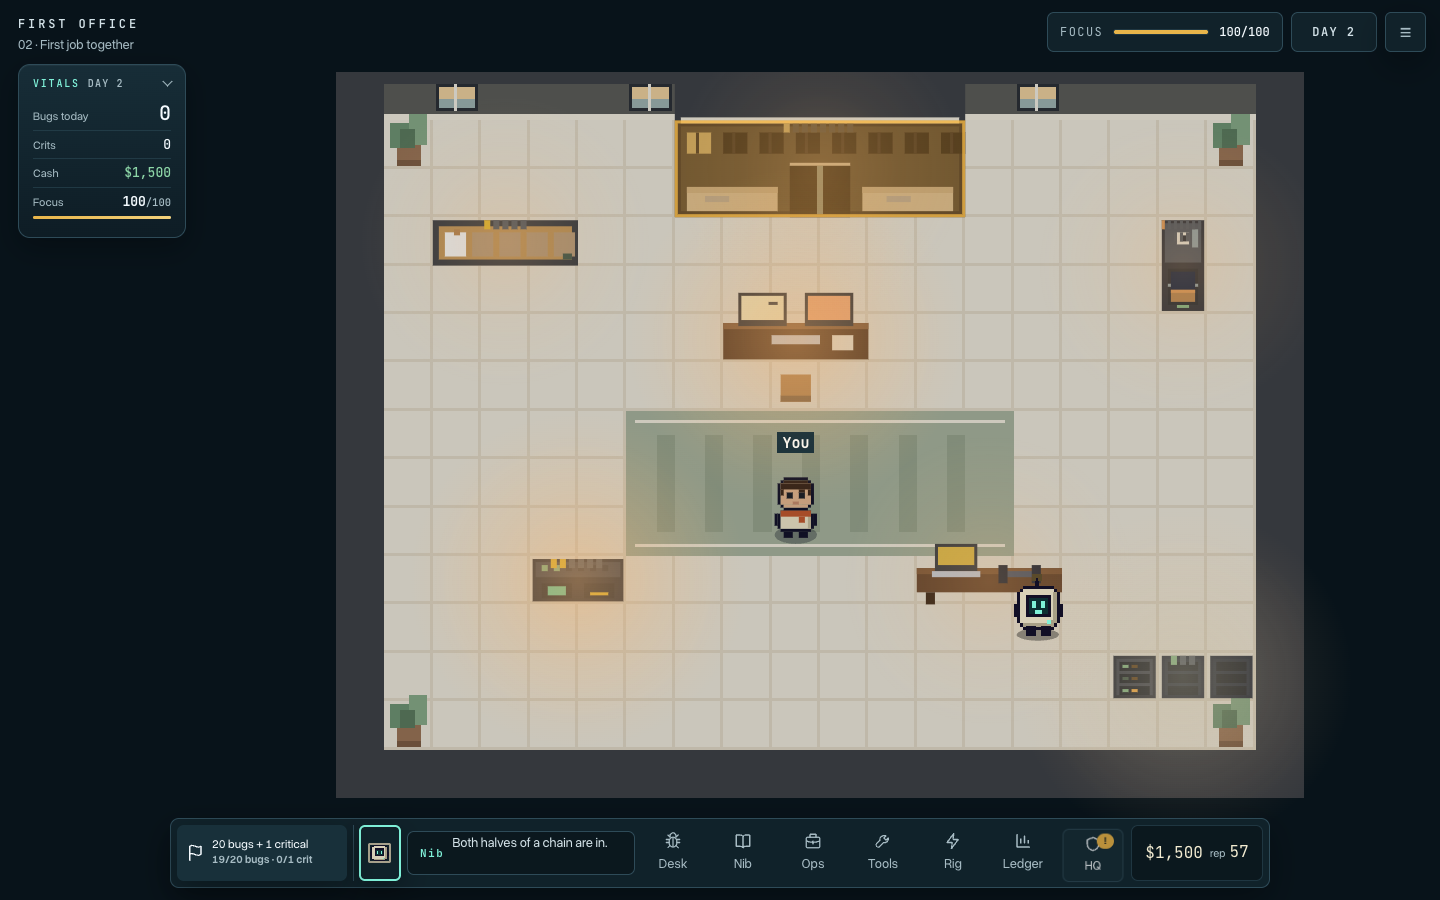
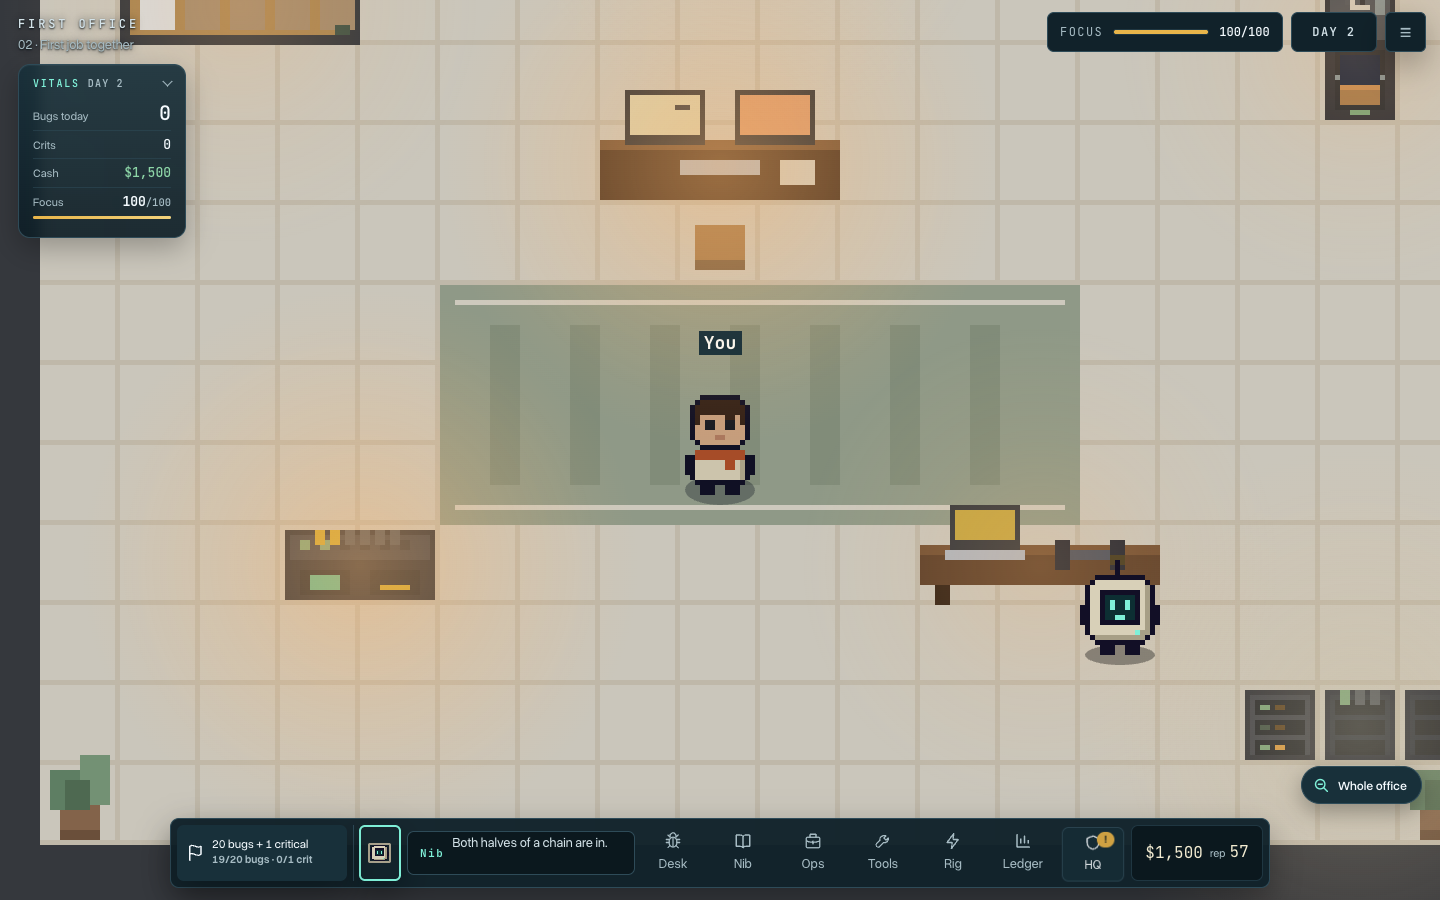
- world.js: centre the room on screen, shifting right only when it would hit the vitals box - world.js: add follow camera (1.75x zoom, keeps the character centred, eased switch) with setCamera/camera API - game.js: Whole office / Follow me toggle and Z shortcut, remembered in localStorage; lamps tra

diff --git a/original/world.js b/original/world.js
@@ -300,10 +300,13 @@
       var k = Math.max(0.05, Math.min((x1 - x0) / R.width, (bot - y0) / R.height));
       return { s: k, ox: Math.round(x0 + (x1 - x0 - R.width * k) / 2), oy: Math.round(y0 + (bot - y0 - R.height * k) / 2) };
     }
-    // insets.left keeps a margin clear on the left (the page's vitals box); the room centres in what's left.
-    var L = MX + (insets.left || 0), a = fit(L, w - MX, M), hud = insets.hud;
+    // insets.left keeps a margin clear on the left (the page's vitals box). The room stays centred when that margin is
+    // already clear, moves right just enough when it isn't, and only shrinks when it can't fit either way.
+    var L = MX + (insets.left || 0), hud = insets.hud;
+    function place(y0) { var c = fit(MX, w - MX, y0); return c.ox >= L ? c : L + R.width * c.s <= w - MX ? { s: c.s, ox: L, oy: c.oy } : fit(L, w - MX, y0); }
+    var a = place(M);
     if (!hud || a.ox + R.width * a.s <= hud.left - M || a.oy >= hud.bottom + M) return a;
-    var x1 = hud.left - M, below = fit(L, w - MX, Math.max(M, insets.top + M)), ox = Math.round(x1 - R.width * a.s);
+    var x1 = hud.left - M, below = place(Math.max(M, insets.top + M)), ox = Math.round(x1 - R.width * a.s);
     if (ox >= L && (a.ox - ox <= w * 0.06 || a.s > below.s * 1.15)) return { s: a.s, ox: ox, oy: a.oy };
     var left = fit(L, x1, M);
     return left.s > below.s * 1.15 ? left : below;
@@ -748,9 +751,20 @@
     var view = { s: 1, ox: 0, oy: 0 }, ctxKey = '', ctxPos = '', ctxT = 0, aria = '', nearId = null, touchUI = false, insets = null;
     // The room's view on this canvas: the free band the app measured (CSS px) in canvas px, else the whole canvas.
     // Drawing, taps and guide anchors all use it.
+    // Camera: cam.k eases 0 → 1 between the whole room (fit) and following the founder at cam.zoom× the fit scale,
+    // with the founder held at the centre of the free band. Everything that reads fitView (drawing, taps, anchors,
+    // roomRect and the page's layers on it) follows.
+    var cam = { follow: false, zoom: 1.75, k: 0 };
     function fitView(R) {
-      var rc = canvas.getBoundingClientRect(), cw = canvas.width / D, k = rc.width ? cw / rc.width : 1, i = insets;
-      var v = roomView(cw, canvas.height / D, R.id, i && { top: i.top * k, bottom: i.bottom * k, left: i.left * k, hud: i.hud && { left: i.hud.left * k, bottom: i.hud.bottom * k } });
+      var rc = canvas.getBoundingClientRect(), cw = canvas.width / D, ch = canvas.height / D, k = rc.width ? cw / rc.width : 1, i = insets;
+      var v = roomView(cw, ch, R.id, i && { top: i.top * k, bottom: i.bottom * k, left: i.left * k, hud: i.hud && { left: i.hud.left * k, bottom: i.hud.bottom * k } });
+      if (cam.k > 0) {
+        var e = cam.k < 1 ? cam.k * cam.k * (3 - 2 * cam.k) : 1, cx = cw / 2, cy = i ? (i.top * k + ch - i.bottom * k) / 2 : ch / 2;
+        var fx0 = (cx - v.ox) / v.s, fy0 = (cy - v.oy) / v.s, fx = fx0 + (P.x - fx0) * e, fy = fy0 + (P.y - 10 - fy0) * e;
+        var sv = v.s * Math.pow(cam.zoom, e) * D, sn = Math.floor(sv);
+        if (e === 1 && sn >= 1 && sn / sv >= 0.9) sv = sn; // whole device pixels per art pixel once settled
+        return { s: sv, ox: Math.round(cx * D - fx * sv), oy: Math.round(cy * D - fy * sv) };
+      }
       if (D === 1) return v;
       // On dense screens the art gets whole device pixels per art pixel when that costs under 10% of its size.
       var sv = v.s * D, ox = v.ox * D, oy = v.oy * D, sn = Math.floor(sv);
@@ -1052,6 +1066,8 @@
       raf = window.requestAnimationFrame(frame);
       var dt = last ? Math.min(0.05, Math.max(0, (now - last) / 1000)) : 0;
       last = now; if (document.hidden) return; t += dt; pulseT = Math.max(0, pulseT - dt);
+      cam.k = cam.follow ? Math.min(1, cam.k + dt / 0.45) : Math.max(0, cam.k - dt / 0.45);
+      if (mq && mq.matches) cam.k = cam.follow ? 1 : 0;
       step(dt); stepFounders(dt); emitCtx(); draw();
     }
 
@@ -1140,6 +1156,9 @@
       setTouch: function (on) { touchUI = !!on; },
       // Free band for the room, in CSS px from the canvas edges: the HUD box ({left, bottom}), the band top
       // below it and the space the dock and status line take at the bottom. Null fits the whole canvas.
+      // follow: true holds the founder at the centre, zoomed in; false shows the whole room. Eases over 450 ms.
+      setCamera: function (o) { if (o && 'follow' in o) cam.follow = !!o.follow; if (o && +o.zoom > 1) cam.zoom = +o.zoom; },
+      camera: function () { return { follow: cam.follow, zoom: cam.zoom, moving: cam.k > 0 && cam.k < 1 }; },
       setInsets: function (v) {
         function n(x) { x = +x; return isFinite(x) ? Math.max(0, x) : 0; }
         insets = v && typeof v === 'object' ? { top: n(v.top), bottom: n(v.bottom), left: n(v.left), hud: v.hud ? { left: n(v.hud.left), bottom: n(v.hud.bottom) } : null } : null;

diff --git a/game.js b/game.js
@@ -185,6 +185,7 @@
     window.Talk.set($('objective'), flash && Date.now() < flash.until ? flash.text : objective()); // #11: new wording types out, new numbers don't
     $('stats-open').hidden = !s.seen.stats;
     vitals();
+    $('view-toggle').hidden = !s.seen.intro;
     wallet();
     placeLamps(); // #12: lamp pools follow the stations you've unlocked
     const known = (dockSeen = dockSeen || new Set(ORDER.filter(shown))), now = document.timeline.currentTime || 0;
@@ -738,6 +739,23 @@
       ${!known.length ? '<p class="hint-line">Teach Nib first: tries are wasted until then.</p>' : avg < 0.5 ? '<p class="hint-line">Weak patterns: more tries, more false alarms.</p>' : ''}
       <ul class="shoplist">${tiers}</ul>`;
   }
+  // ---------- camera ----------
+  // By default the view is zoomed in and follows you, holding you at the centre. The button at the bottom right (or Z)
+  // zooms out to the whole office; the choice is remembered on this address.
+  const VIEW = 'first-office-view-v1';
+  let follow = true; try { follow = localStorage.getItem(VIEW) !== 'fit'; } catch {}
+  function setFollow(on, quiet) {
+    follow = on; world.setCamera({ follow: on });
+    if (!quiet) try { localStorage.setItem(VIEW, on ? 'follow' : 'fit'); } catch {}
+    const b = $('view-toggle'); b.setAttribute('aria-pressed', on); b.classList.toggle('out', !on);
+    b.querySelector('span').textContent = on ? 'Whole office' : 'Follow me';
+    b.setAttribute('aria-label', on ? 'Zoom out to the whole office' : 'Zoom in and follow you');
+  }
+  $('view-toggle').addEventListener('click', () => { setFollow(!follow); $('world').focus({ preventScroll: true }); });
+  setFollow(follow, true);
+  // The lamp pools sit on the room's on-screen rect; while the camera moves they follow every frame.
+  (function camTick() { const c = world.camera(); if (c.follow || c.moving) placeLamps(); requestAnimationFrame(camTick); })();
+
   // ---------- vitals box ----------
   // A slim list under the chapter title: bugs today, crits, cash and focus. A click (or V) opens today's and lifetime
   // totals and per-day charts. "Today" is the current game day, measured against the snapshot engine.sleep() saves.
@@ -1135,6 +1153,7 @@
     if (id && shown(id) && !(ui.win && e.target.closest('#panel-dialog') && /^[a-z]$/.test(e.key) && false)) { e.preventDefault(); ui.win === id ? closeWindow() : openStation(id); }
     else if (e.key.toLowerCase() === 'g') $('goal-open').click();
     else if (e.key.toLowerCase() === 'v') toggleVitals();
+    else if (e.key.toLowerCase() === 'z' && !$('view-toggle').hidden) $('view-toggle').click();
   });
   window.addEventListener('resize', layout);
   const ro = new ResizeObserver(layout); ro.observe(document.querySelector('.dock-shell')); ro.observe($('world')); // the canvas: after world.js's own observer has resized it

diff --git a/style.css b/style.css
@@ -8,7 +8,7 @@
 :root{--stagger:50ms;--wind:cubic-bezier(.3,0,.7,1);--settle:cubic-bezier(.16,1,.3,1)}
 
 /* ---- chrome ---- */
-.chapter{position:absolute;left:18px;top:16px;z-index:3;display:grid;gap:4px;pointer-events:none}
+.chapter{position:absolute;left:18px;top:16px;z-index:3;display:grid;gap:4px;pointer-events:none;text-shadow:0 1px 2px rgba(4,10,14,.9),0 0 10px rgba(4,10,14,.7)}
 .chapter span{font:600 12px var(--mono);letter-spacing:.24em;color:var(--ink-2)}
 .chapter small{font-size:13px;color:var(--muted)}
 #nib-layer{position:absolute;inset:0;width:100%;height:100%;z-index:1;pointer-events:none}
@@ -467,3 +467,13 @@ body:has(#panel-dialog[open]) .playfield::after{content:"";position:absolute;ins
 .vchart text{font:8px var(--mono);fill:var(--muted);text-anchor:middle}
 @media (max-width:700px){.vitals{top:12px;left:12px}}
 @media (prefers-reduced-motion:reduce){.vitals,.vx,.vitals .chev,.vitals .vbar i{transition:none}.vitals.open .vx section,.vitals.open .vchart *{animation:none!important;opacity:1;transform:none}.vitals .up{animation:none}}
+
+/* Zoom toggle (game.js setFollow): bottom right, above the dock. Following you shows "Whole office" (zoom out); zoomed out shows "Follow me". */
+.view-toggle{position:absolute;right:18px;bottom:calc(var(--dock-top,90px) + 14px);z-index:6;display:flex;align-items:center;gap:8px;height:38px;padding:0 14px 0 11px;
+  background:linear-gradient(180deg,rgba(24,48,58,.94),rgba(14,30,38,.94));border:1px solid var(--line-2);border-radius:999px;color:var(--ink-2);font:500 12.5px var(--sans);
+  box-shadow:0 8px 22px rgba(0,0,0,.3);backdrop-filter:blur(6px);cursor:pointer;transition:border-color .2s,color .2s,transform .12s ease-out}
+.view-toggle:hover{border-color:rgba(127,240,216,.55);color:var(--ink)}
+.view-toggle:active{transform:scale(.96)}
+.view-toggle svg{width:17px;height:17px;fill:none;stroke:var(--nib);stroke-width:1.7;stroke-linecap:round}
+.view-toggle .plus{transition:opacity .2s;opacity:0}.view-toggle.out .plus{opacity:1}
+@media (max-width:700px){.view-toggle span{display:none}.view-toggle{padding:0 10px;right:12px}}

diff --git a/index.html b/index.html
@@ -23,6 +23,7 @@
   <p class="direction-field nib-line" id="nib-line" role="status" aria-live="polite"><b>Nib</b> <span id="objective"></span></p>
   <button id="stats-open" class="wallet" hidden title="Reputation (I)"><span class="res"><strong id="cash">$0</strong></span><span class="res"><span class="k">rep</span> <strong id="rep">0</strong></span></button>
  </nav></div>
+ <button id="view-toggle" class="view-toggle" hidden aria-pressed="true" title="Zoom (Z)"><svg viewBox="0 0 20 20" aria-hidden="true"><circle cx="8.5" cy="8.5" r="5.5"/><path d="M12.6 12.6 17 17M6 8.5h5"/><path class="plus" d="M8.5 6v5"/></svg><span></span></button>
  <div class="world-actions"><button data-icon="arrow" id="interact" disabled><kbd>E</kbd> <span id="interact-label">Walk up to a desk</span></button></div>
  <div class="dpad" role="group" aria-label="Movement controls"><button data-move="up" aria-label="Walk up">▲</button><button data-move="left" aria-label="Walk left">◀</button><button data-move="down" aria-label="Walk down">▼</button><button data-move="right" aria-label="Walk right">▶</button></div>
  <div id="night" class="night" hidden><p id="night-text"></p></div>

diff --git a/README.md b/README.md
@@ -92,6 +92,8 @@ The founder doesn't wind up: you control it, so it reacts on the frame you press
 | `stage3/harness.js` | Agents: brief parsing, sanitize/preflight, job routines, tools, stop conditions, movement, narration |
 | `stage3/crew.js`, `stage3/crew.css` | Agent sprites, the Office/Agents switch, the Codex-style Agents view, AGENTS.md |
 
+**Camera**: by default the view is zoomed in 1.75× and follows you, holding you at the centre (`world.setCamera({follow})`, eased over 450 ms). The button at the bottom right (or Z) zooms out to the whole office; the choice is saved as `first-office-view-v1`.
+
 **Vitals box** (top left, or V): bugs today, crits, cash and focus; click for today's and lifetime totals and per-day charts. On screens 900px and wider the room keeps a left margin clear for it (`world.setInsets({left})`); open, it floats over the room only if the margin is too narrow. "Today" is the current game day, measured against the end-of-day snapshot `engine.sleep()` adds to `s.days` (last 60 days).
 
 Saves (localStorage on this address): `first-office-nib-v1` (Stage 1 memory), `first-office-game-v1` (office), `first-office-crew-v1` (agents and rules).
